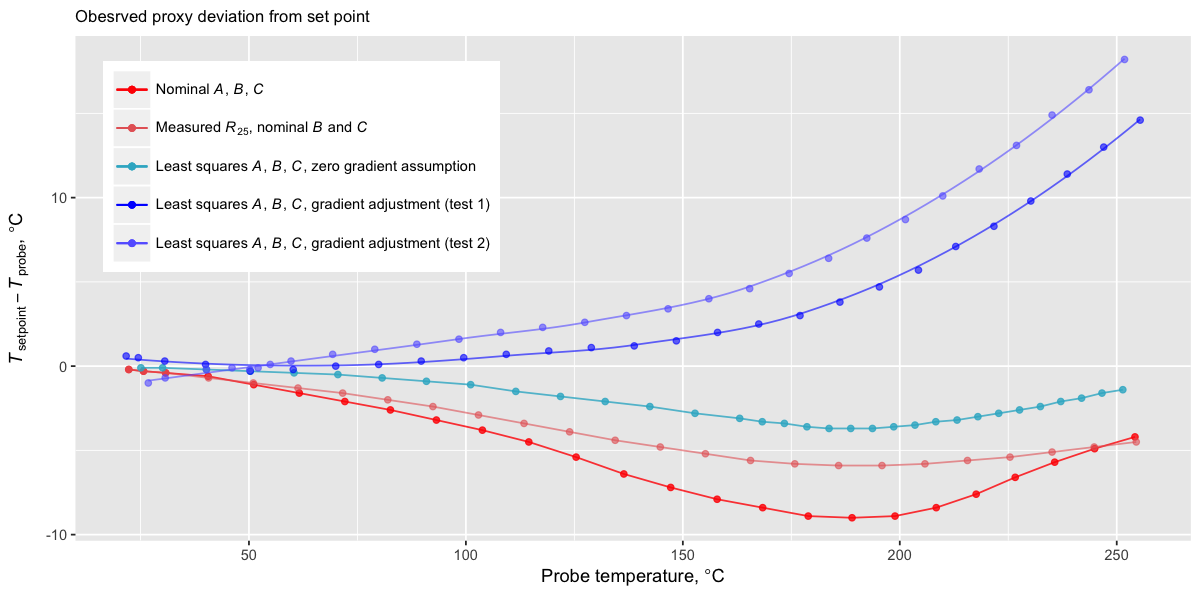
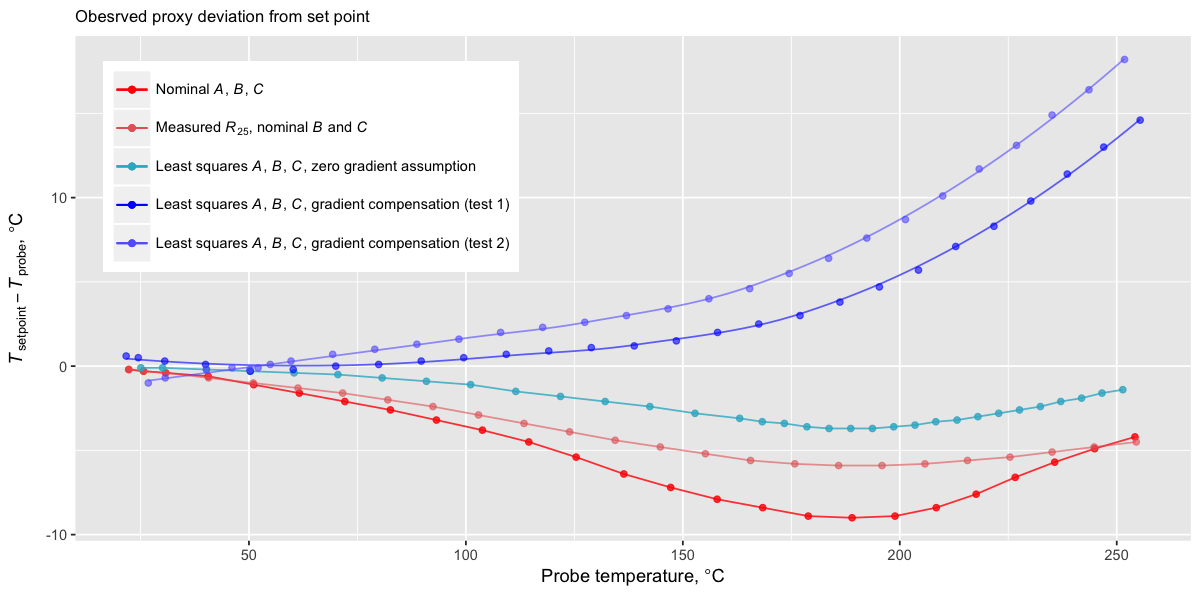
doc edits

Changed region(s): [[0.3083, 0.09, 0.4317, 0.45]]

diff --git a/README.md b/README.md
@@ -102,11 +102,11 @@ In this last experiment, letting the printer take control of the hotend temperat
 
 ### Nominal values
 
-Setting thermostat parameters from ATC Semitec data sheet resulted in a limited but uncomfortably large deviation. Especially uncomfortable is its direction: it makes the termistor appear cooler than the probe. Still, in the absence of calibration data, it is not a terrible solution. With proper tune-up, it can result in a working thermostat. The downside of this approach is that it is impossible to tell how accurate it will be.
+Setting thermostat parameters from ATC Semitec data sheet resulted in a limited but uncomfortably large deviation. Especially uncomfortable is its direction: it makes the termistor appear cooler than the probe. Still, in the absence of calibration data, it is not a terrible solution. With proper tune-up, it can result in a working thermostat. The downside of this approach is that it is impossible to tell how accurate it is.
 
 ### Nominal values with measured room-temperature resistance
 
-Measuring thermistor resistance at room temperature can be done fairly accurately. With ambient temperature at 21&deg;C, the gradient inside the hotend is negligible. Adjusting the Steinhart-Hart equation using the measured room-temperature resistance (98400&Ohm; in this case) resulted in somewhat better behavior. It is still wrong, but not as wrong as with all nominal values informing the thermostat.
+Measuring thermistor resistance at room temperature can be done fairly accurately. With ambient temperature at 21&deg;C, the gradient inside the hotend is negligible. Adjusting the Steinhart-Hart equation using the measured room-temperature resistance (98400&Ohm; in this case) resulted in somewhat better behavior. It is still wrong, although apparently not as wrong as with all nominal values informing the thermostat.
 
 Note that the measured resistance is within the factory tolerance of 3%.
 
@@ -115,5 +115,16 @@ Note that the measured resistance is within the factory tolerance of 3%.
 A na&iuml;ve approach to calibration would be to ignore thermal resistance between the thermistor and the probe. This may be a fair assumption in the case of a small heater block, such as the original RepRap block or pretty much every hotend seen on the market today. It is an even better assumption if the heater block is insulated. I noticed the current trend in 3D printer design is to insulate the hotends as much as possible; that should improve temmperature accuracy, possibly allowing for *in situ* calibration.
 
 In the Diamond Hotend, the observed temperature dependence of probe deviation completely invalidates the assumption of zero gradient. It is, indeed, the least deviant of all models tested, but it is such by design. It achieves this result by bending the truth, both figuratively and literally. I find no comfort in a (relatively) small deviation knowing that it could only be achieved with a non-convex transformation of temperature-resistance dependence. It implies a non-convex (and negative) gradient &mdash; a certain impossibility.
+
+It is still likely the least wrong of all wrong solutions; probably good enough to set up a well-working thermostat (I tested that extensively), but not good enough for accurate temperature measurement.
+
+### Well-behaved solution based on gradient compensation
+
+Notwithstanding the murky machinations that let me discover a plausible gradient compensation, the model that takes it into account seems to make most sense. Here is the list of reasons why I like it.
+
+* It does not produce non-convex behavior
+* It minimizes Steinhart-Hart residuals in a sane way. The residuals appear to be random and are comparable with the measurement error (cold junction instability, reference voltage accuracy, and rounding erroris in digital displays). This result and the non-convexity of probe deviation may be aspects of the same phenomenon; if they are, it is still nice to be a able to observe it by a couple different methods.
+* It does not imply a heat sink inside the nozzle or a heat source on the outside. The observed steady-state behavior always indicates a hotter core.
+* The dynamic behavior during heat-up and cool-down (not presented here due to difficulties in recording) is quasi-symmetric. The system exhibits higher probe deviation during heat-up and lower or negative deviation during cool-down. The inversion of the gradient is possible because the tips of the heatsinks are closer to the thermistor than to the probe. In fact, the hole into which I inserted the probe is equidistant and most removed from the nearest pair of heatsinks; heatsinks are more efficient than the smooth surface of the nozzle, and thus  *momentary* inversion of the gradient makes more sense than it being constantly positive, let alone constantly negative.
 
 Among all estimates of Steinhart-Hart coefficients, I like the one that minimizes model residuals in the most sensible way, without obvious second-order distortions.
